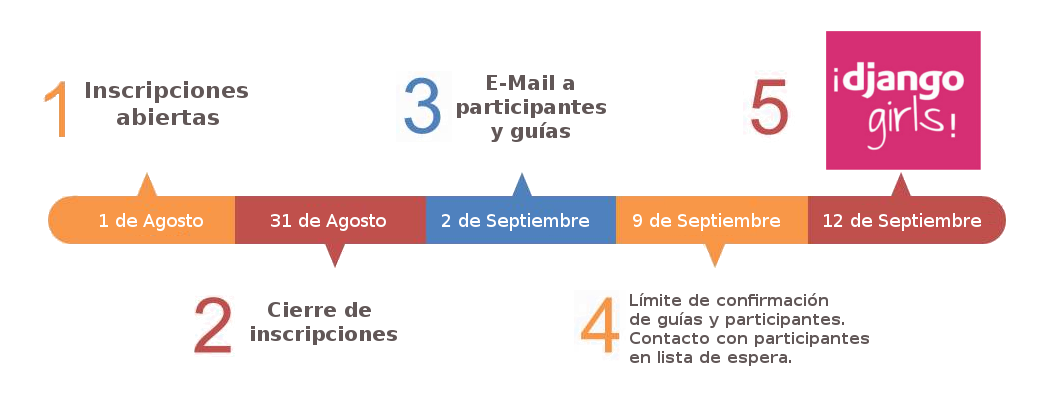
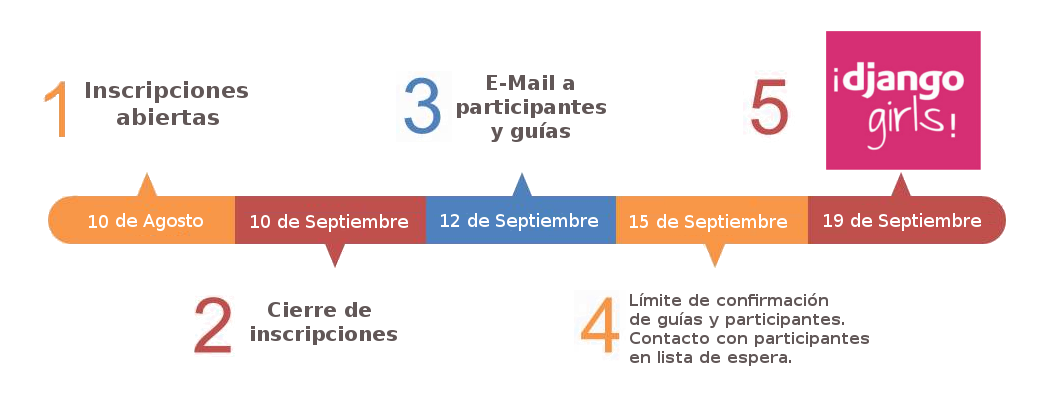
Actualización de PR. Cambio de fecha del evento a 19 de Septiembre

diff --git a/web/stories/django-girls-tucuman.rst b/web/stories/django-girls-tucuman.rst
@@ -88,7 +88,7 @@ mujer con vos que también realice el taller [#]_.
   <https://www.facet.unt.edu.ar/>`_ Avda. Independencia 1800, Tucumán, 
   Argentina.
 
-* Fecha: Martes 12 de Septiembre de 2017 de 8:30hs (puntual) a 19:00hs.
+* Fecha: Martes 19 de Septiembre de 2017 de 8:30hs (puntual) a 19:00hs.
 
 .. template:: iframe
    :src: https://www.openstreetmap.org/export/embed.html?bbox=-65.24552822113039%2C-26.850914143478878%2C-65.21720409393312%2C-26.833587308336288&amp;layer=mapnik&amp;marker=-26.8422510573666%2C-65.23136615753174
